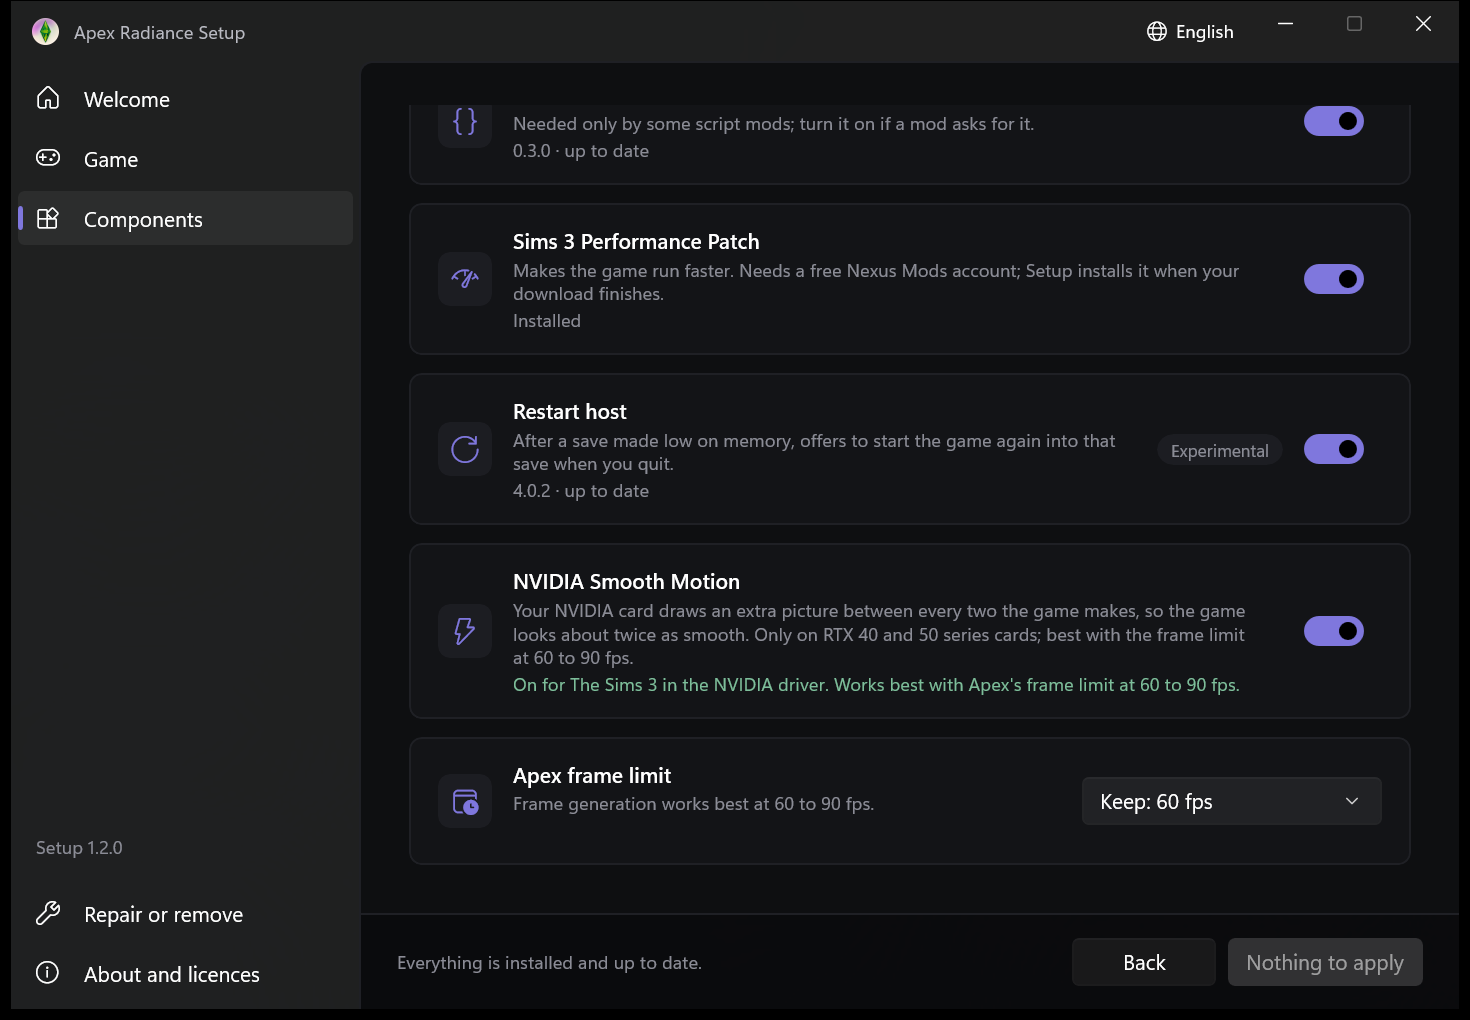
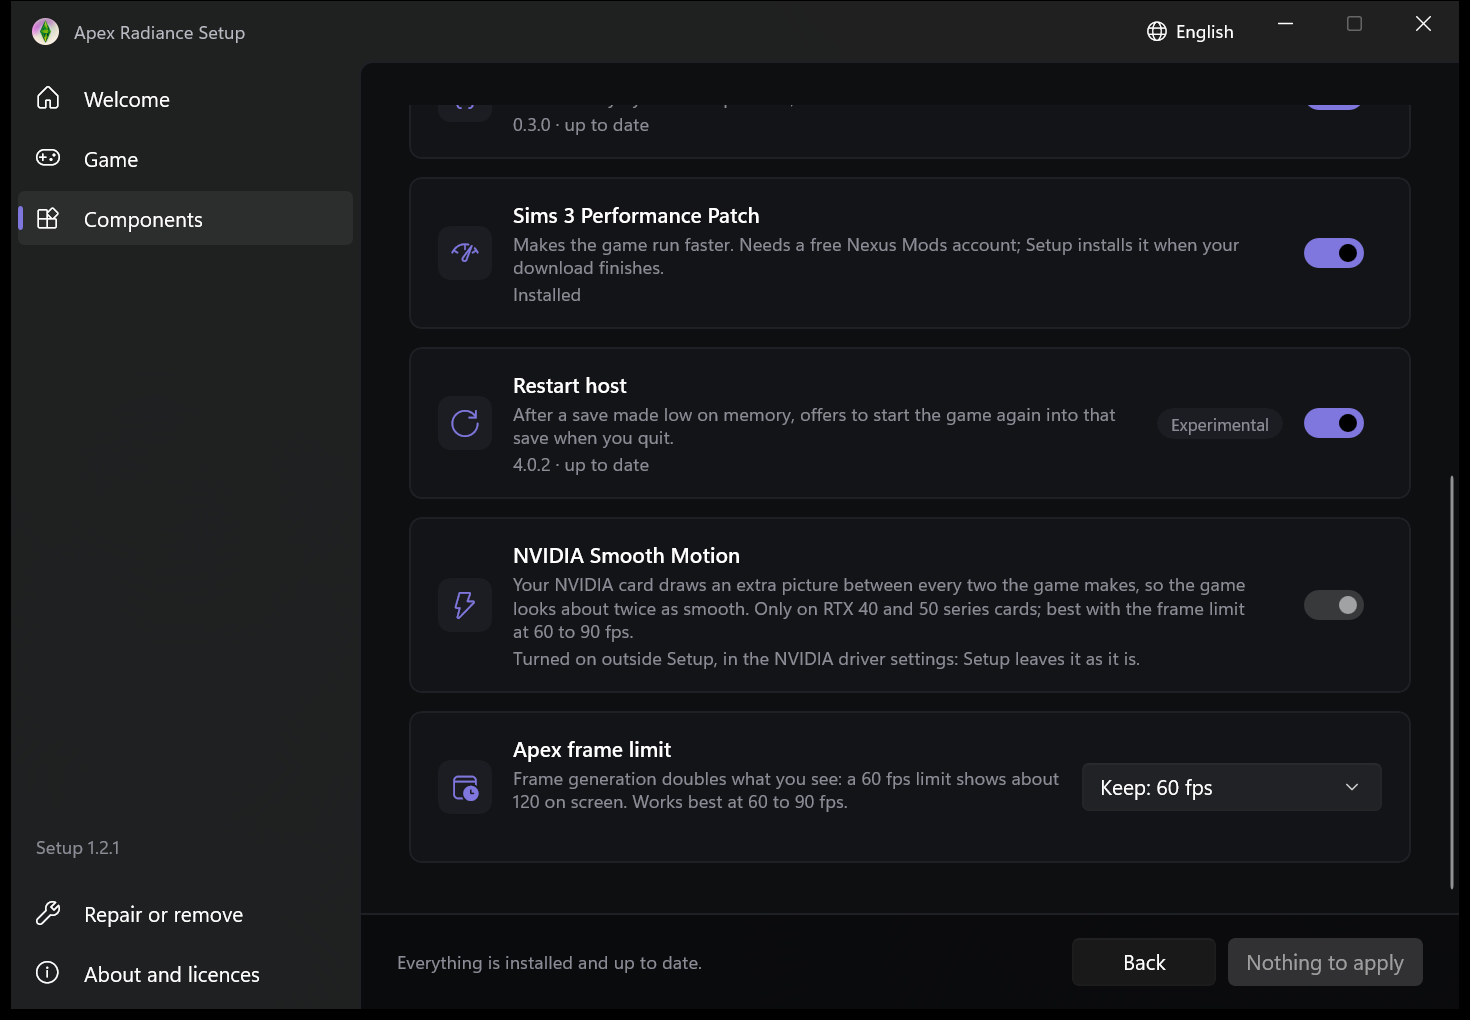
installer: the frame limit says frame generation doubles it
The Apex frame limit row now says what the player gets: a 60 fps limit shows about 120 on screen with frame generation, best at 60 to 90 fps. Translated into every Setup language; the screenshot is retaken.

diff --git a/installer/ApexSetup/MainWindow.xaml b/installer/ApexSetup/MainWindow.xaml
@@ -374,7 +374,7 @@
                                     </Border>
                                     <StackPanel Grid.Column="1" Spacing="2" VerticalAlignment="Center">
                                         <TextBlock Text="Apex frame limit" Style="{StaticResource ApexStrong}" />
-                                        <TextBlock Text="Frame generation works best at 60 to 90 fps." Style="{StaticResource ApexMuted}" TextWrapping="Wrap" />
+                                        <TextBlock Text="Frame generation doubles what you see: a 60 fps limit shows about 120 on screen. Works best at 60 to 90 fps." Style="{StaticResource ApexMuted}" TextWrapping="Wrap" />
                                         <TextBlock x:Name="FpsPill" Tag="dyn" FontSize="12" TextWrapping="Wrap" />
                                     </StackPanel>
                                     <StackPanel Grid.Column="2" Orientation="Horizontal" Spacing="8" VerticalAlignment="Center">

diff --git a/installer/ApexSetup/Strings.th.cs b/installer/ApexSetup/Strings.th.cs
@@ -263,7 +263,7 @@ public static partial class Strings
         ["On in the AMD driver, for every game. Works best with Apex's frame limit at 60 to 90 fps."] = "เปิดในไดรเวอร์ AMD สำหรับทุกเกม ทำงานได้ดีที่สุดเมื่อขีดจำกัดเฟรมของ Apex อยู่ที่ 60 ถึง 90 fps",
         ["Off in the AMD driver."] = "ปิดในไดรเวอร์ AMD",
         ["Apex frame limit"] = "ขีดจำกัดเฟรมของ Apex",
-        ["Frame generation works best at 60 to 90 fps."] = "การสร้างเฟรมทำงานได้ดีที่สุดที่ 60 ถึง 90 fps",
+        ["Frame generation doubles what you see: a 60 fps limit shows about 120 on screen. Works best at 60 to 90 fps."] = "การสร้างเฟรมทำให้ภาพที่เห็นเพิ่มเป็นสองเท่า: จำกัดไว้ 60 fps จะเห็นบนจอประมาณ 120 ทำงานได้ดีที่สุดที่ 60 ถึง 90 fps",
         ["Off"] = "ปิด",
         ["{0} fps"] = "{0} fps",
         ["{0} fps (recommended)"] = "{0} fps (แนะนำ)",

diff --git a/installer/ApexSetup/Strings.el.cs b/installer/ApexSetup/Strings.el.cs
@@ -308,7 +308,7 @@ public static partial class Strings
         ["On in the AMD driver, for every game. Works best with Apex's frame limit at 60 to 90 fps."] = "Ενεργό στον οδηγό της AMD, για όλα τα παιχνίδια. Λειτουργεί καλύτερα με όριο καρέ του Apex 60 έως 90 FPS.",
         ["Off in the AMD driver."] = "Ανενεργό στον οδηγό της AMD.",
         ["Apex frame limit"] = "Όριο καρέ του Apex",
-        ["Frame generation works best at 60 to 90 fps."] = "Η δημιουργία καρέ λειτουργεί καλύτερα στα 60 έως 90 FPS.",
+        ["Frame generation doubles what you see: a 60 fps limit shows about 120 on screen. Works best at 60 to 90 fps."] = "Η δημιουργία καρέ διπλασιάζει ό,τι βλέπετε: όριο 60 FPS δείχνει περίπου 120 στην οθόνη. Λειτουργεί καλύτερα στα 60 έως 90 FPS.",
         ["Off"] = "Ανενεργό",
         ["{0} fps"] = "{0} FPS",
         ["{0} fps (recommended)"] = "{0} FPS (προτείνεται)",

diff --git a/installer/ApexSetup/Strings.ru.cs b/installer/ApexSetup/Strings.ru.cs
@@ -293,7 +293,7 @@ public static partial class Strings
         ["On in the AMD driver, for every game. Works best with Apex's frame limit at 60 to 90 fps."] = "Включено в драйвере AMD, для всех игр. Лучше всего работает с ограничением кадров Apex от 60 до 90 FPS.",
         ["Off in the AMD driver."] = "Выключено в драйвере AMD.",
         ["Apex frame limit"] = "Ограничение кадров Apex",
-        ["Frame generation works best at 60 to 90 fps."] = "Генерация кадров лучше всего работает при 60–90 FPS.",
+        ["Frame generation doubles what you see: a 60 fps limit shows about 120 on screen. Works best at 60 to 90 fps."] = "Генерация кадров удваивает то, что вы видите: ограничение 60 FPS даёт около 120 на экране. Лучше всего работает при 60–90 FPS.",
         ["Off"] = "Выкл.",
         ["{0} fps"] = "{0} FPS",
         ["{0} fps (recommended)"] = "{0} FPS (рекомендуется)",

diff --git a/installer/ApexSetup/Strings.ja.cs b/installer/ApexSetup/Strings.ja.cs
@@ -297,7 +297,7 @@ public static partial class Strings
         ["On in the AMD driver, for every game. Works best with Apex's frame limit at 60 to 90 fps."] = "AMD ドライバーでオン (すべてのゲーム)。Apex のフレーム制限を 60～90 fps にすると最もよく動きます。",
         ["Off in the AMD driver."] = "AMD ドライバーでオフ。",
         ["Apex frame limit"] = "Apex のフレーム制限",
-        ["Frame generation works best at 60 to 90 fps."] = "フレーム生成は 60～90 fps で最もよく動きます。",
+        ["Frame generation doubles what you see: a 60 fps limit shows about 120 on screen. Works best at 60 to 90 fps."] = "フレーム生成で見えるフレームは 2 倍になります: 60 fps の制限なら画面では約 120。60～90 fps で最もよく動きます。",
         ["Off"] = "オフ",
         ["{0} fps"] = "{0} fps",
         ["{0} fps (recommended)"] = "{0} fps (推奨)",

diff --git a/installer/ApexSetup/Strings.es.cs b/installer/ApexSetup/Strings.es.cs
@@ -305,7 +305,7 @@ public static partial class Strings
         ["On in the AMD driver, for every game. Works best with Apex's frame limit at 60 to 90 fps."] = "Activado en el controlador de AMD, para todos los juegos. Funciona mejor con el límite de fotogramas de Apex entre 60 y 90 FPS.",
         ["Off in the AMD driver."] = "Desactivado en el controlador de AMD.",
         ["Apex frame limit"] = "Límite de fotogramas de Apex",
-        ["Frame generation works best at 60 to 90 fps."] = "La generación de fotogramas funciona mejor entre 60 y 90 FPS.",
+        ["Frame generation doubles what you see: a 60 fps limit shows about 120 on screen. Works best at 60 to 90 fps."] = "La generación de fotogramas duplica lo que ves: un límite de 60 FPS muestra unos 120 en pantalla. Funciona mejor entre 60 y 90 FPS.",
         ["Off"] = "Desactivado",
         ["{0} fps"] = "{0} FPS",
         ["{0} fps (recommended)"] = "{0} FPS (recomendado)",

diff --git a/installer/ApexSetup/Strings.ko.cs b/installer/ApexSetup/Strings.ko.cs
@@ -295,7 +295,7 @@ public static partial class Strings
         ["On in the AMD driver, for every game. Works best with Apex's frame limit at 60 to 90 fps."] = "AMD 드라이버에서 모든 게임에 켜짐. Apex의 프레임 제한이 60~90fps일 때 가장 잘 작동합니다.",
         ["Off in the AMD driver."] = "AMD 드라이버에서 꺼짐.",
         ["Apex frame limit"] = "Apex 프레임 제한",
-        ["Frame generation works best at 60 to 90 fps."] = "프레임 생성은 60~90fps에서 가장 잘 작동합니다.",
+        ["Frame generation doubles what you see: a 60 fps limit shows about 120 on screen. Works best at 60 to 90 fps."] = "프레임 생성은 보이는 프레임을 두 배로 늘립니다: 60fps 제한이면 화면에는 약 120이 보입니다. 60~90fps에서 가장 잘 작동합니다.",
         ["Off"] = "끄기",
         ["{0} fps"] = "{0}fps",
         ["{0} fps (recommended)"] = "{0}fps (권장)",

diff --git a/installer/ApexSetup/Strings.fr.cs b/installer/ApexSetup/Strings.fr.cs
@@ -307,7 +307,7 @@ public static partial class Strings
         ["On in the AMD driver, for every game. Works best with Apex's frame limit at 60 to 90 fps."] = "Activé dans le pilote AMD, pour tous les jeux. Fonctionne mieux avec la limite d'images d'Apex entre 60 et 90 FPS.",
         ["Off in the AMD driver."] = "Désactivé dans le pilote AMD.",
         ["Apex frame limit"] = "Limite d'images d'Apex",
-        ["Frame generation works best at 60 to 90 fps."] = "La génération d'images fonctionne mieux entre 60 et 90 FPS.",
+        ["Frame generation doubles what you see: a 60 fps limit shows about 120 on screen. Works best at 60 to 90 fps."] = "La génération d'images double ce que vous voyez : une limite de 60 FPS affiche environ 120 à l'écran. Fonctionne mieux entre 60 et 90 FPS.",
         ["Off"] = "Désactivée",
         ["{0} fps"] = "{0} FPS",
         ["{0} fps (recommended)"] = "{0} FPS (recommandé)",

diff --git a/installer/ApexSetup/Strings.it.cs b/installer/ApexSetup/Strings.it.cs
@@ -305,7 +305,7 @@ public static partial class Strings
         ["On in the AMD driver, for every game. Works best with Apex's frame limit at 60 to 90 fps."] = "Attivo nel driver AMD, per tutti i giochi. Funziona meglio con il limite di fotogrammi di Apex tra 60 e 90 FPS.",
         ["Off in the AMD driver."] = "Disattivato nel driver AMD.",
         ["Apex frame limit"] = "Limite di fotogrammi di Apex",
-        ["Frame generation works best at 60 to 90 fps."] = "La generazione di fotogrammi funziona meglio tra 60 e 90 FPS.",
+        ["Frame generation doubles what you see: a 60 fps limit shows about 120 on screen. Works best at 60 to 90 fps."] = "La generazione di fotogrammi raddoppia ciò che vedi: un limite di 60 FPS mostra circa 120 sullo schermo. Funziona meglio tra 60 e 90 FPS.",
         ["Off"] = "Disattivato",
         ["{0} fps"] = "{0} FPS",
         ["{0} fps (recommended)"] = "{0} FPS (consigliato)",

diff --git a/installer/ApexSetup/Strings.hu.cs b/installer/ApexSetup/Strings.hu.cs
@@ -310,7 +310,7 @@ public static partial class Strings
         ["On in the AMD driver, for every game. Works best with Apex's frame limit at 60 to 90 fps."] = "Bekapcsolva az AMD-illesztőben, minden játékhoz. 60 és 90 FPS közötti Apex képkockakorláttal működik a legjobban.",
         ["Off in the AMD driver."] = "Kikapcsolva az AMD-illesztőben.",
         ["Apex frame limit"] = "Apex képkockakorlát",
-        ["Frame generation works best at 60 to 90 fps."] = "A képkocka-generálás 60–90 FPS-en működik a legjobban.",
+        ["Frame generation doubles what you see: a 60 fps limit shows about 120 on screen. Works best at 60 to 90 fps."] = "A képkocka-generálás megduplázza, amit látsz: 60 FPS-es korláttal nagyjából 120 jelenik meg. 60–90 FPS-en működik a legjobban.",
         ["Off"] = "Ki",
         ["{0} fps"] = "{0} FPS",
         ["{0} fps (recommended)"] = "{0} FPS (ajánlott)",

diff --git a/installer/ApexSetup/Strings.zh_hant.cs b/installer/ApexSetup/Strings.zh_hant.cs
@@ -263,7 +263,7 @@ public static partial class Strings
         ["On in the AMD driver, for every game. Works best with Apex's frame limit at 60 to 90 fps."] = "已在 AMD 驅動程式中開啟，對所有遊戲生效。Apex 的幀率上限設為 60 到 90 fps 時效果最好。",
         ["Off in the AMD driver."] = "已在 AMD 驅動程式中關閉。",
         ["Apex frame limit"] = "Apex 幀率上限",
-        ["Frame generation works best at 60 to 90 fps."] = "影格生成在 60 到 90 fps 時效果最好。",
+        ["Frame generation doubles what you see: a 60 fps limit shows about 120 on screen. Works best at 60 to 90 fps."] = "影格生成會讓你看到的幀數翻倍：60 fps 上限在螢幕上約為 120。在 60 到 90 fps 時效果最好。",
         ["Off"] = "關閉",
         ["{0} fps"] = "{0} fps",
         ["{0} fps (recommended)"] = "{0} fps（建議）",

diff --git a/installer/ApexSetup/Strings.cs.cs b/installer/ApexSetup/Strings.cs.cs
@@ -300,7 +300,7 @@ public static partial class Strings
         ["On in the AMD driver, for every game. Works best with Apex's frame limit at 60 to 90 fps."] = "Zapnuto v ovladači AMD, pro všechny hry. Nejlépe funguje s limitem snímků Apexu 60 až 90 FPS.",
         ["Off in the AMD driver."] = "Vypnuto v ovladači AMD.",
         ["Apex frame limit"] = "Limit snímků Apexu",
-        ["Frame generation works best at 60 to 90 fps."] = "Generování snímků funguje nejlépe při 60 až 90 FPS.",
+        ["Frame generation doubles what you see: a 60 fps limit shows about 120 on screen. Works best at 60 to 90 fps."] = "Generování snímků zdvojnásobí, co vidíte: limit 60 FPS ukáže na obrazovce asi 120. Funguje nejlépe při 60 až 90 FPS.",
         ["Off"] = "Vypnuto",
         ["{0} fps"] = "{0} FPS",
         ["{0} fps (recommended)"] = "{0} FPS (doporučeno)",
